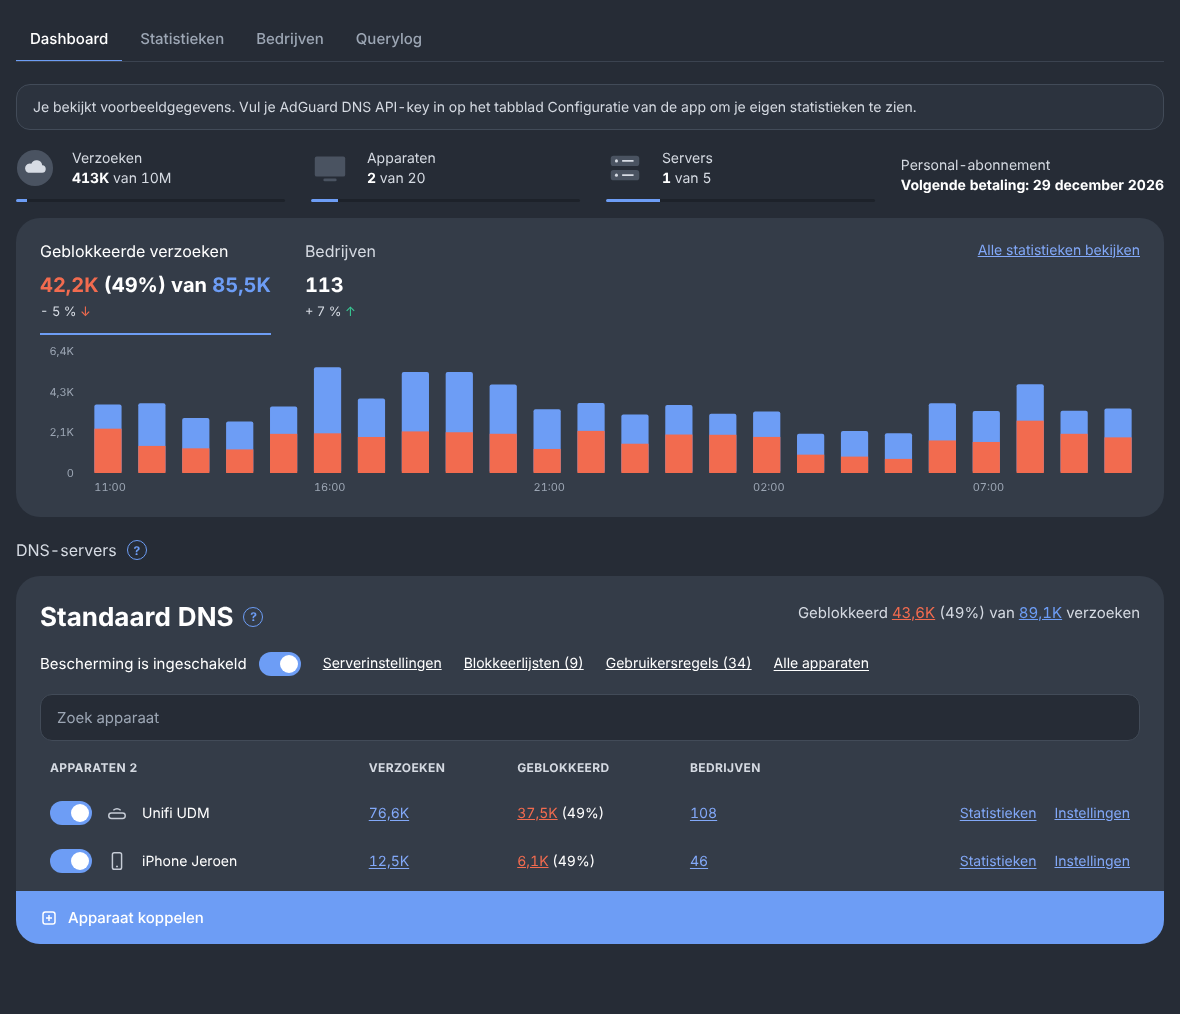
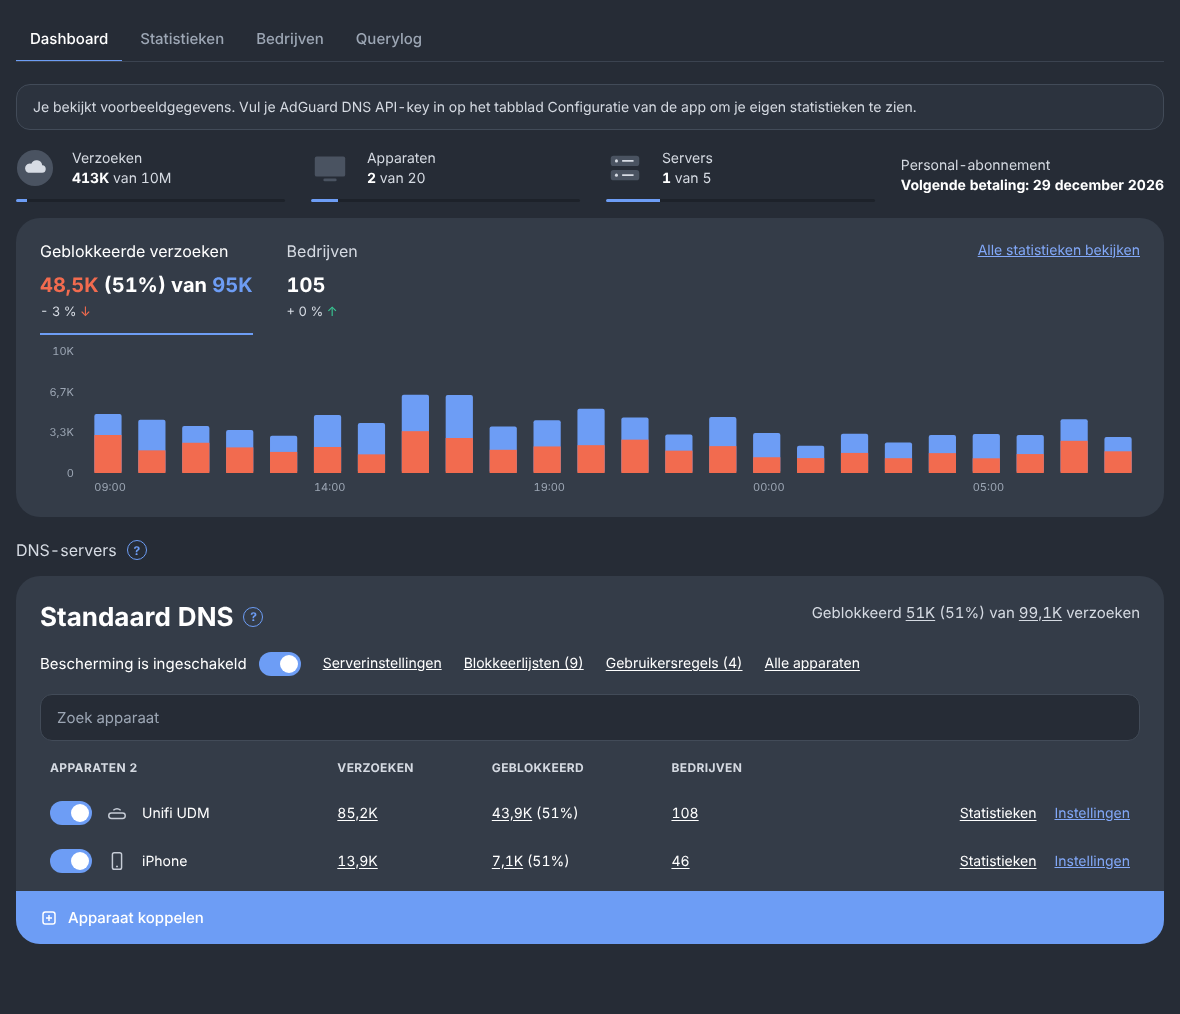
AdGuard DNS Dashboard 1.5.0 (English and Dutch)
Claude-Session: https://claude.ai/code/session_01LJJvsU5wxXHdphLYXtKTSY

diff --git a/adguard_dns/DOCS.md b/adguard_dns/DOCS.md
@@ -1,8 +1,50 @@
 # AdGuard DNS Dashboard
 
+[English](#english) · [Nederlands](#nederlands)
+
+## English
+
+Statistics of your AdGuard DNS account (adguard-dns.io) right in Home Assistant.
+
+The dashboard follows the language of your Home Assistant: Dutch if Home Assistant is set to Dutch, English otherwise.
+
+### Setting up
+
+1. Create an API key at https://adguard-dns.io/en/dashboard/ : click your account at the top right, choose **User preferences** and go to **API keys**. Copy the key right away; it is shown only once.
+2. Fill in on the **Configuration** tab of this app:
+   - `api_key`: your AdGuard DNS API key
+   - `refresh_seconds`: how often the dashboard refreshes (60 seconds by default)
+   - `home_country`: country code of where you live, for the pin on the world map (`NL` by default)
+3. Start the app and open **AdGuard DNS** in the sidebar.
+
+Without an API key the app runs with sample data.
+
+### What you see
+
+- **Dashboard**: usage of your plan, blocked requests and companies per hour with the change compared to the previous period, and your DNS servers with their devices.
+- **Statistics**: requests per period, types of requests, top companies, top destinations, top domains and a world map. Filter by period, server, device and country.
+- **Companies**: the most requested and most blocked company and a table with the top companies.
+- **Query log**: the latest DNS requests, searchable and filterable by blocked or allowed.
+
+### Blocking and unblocking
+
+In the query log, each request has a menu with three dots. Choose **Block domain** or **Unblock domain** and confirm. The dashboard then adds a user rule to the DNS server: `||domain^` to block, `@@||domain^` to allow. Through **User rules** at your DNS server you see all rules and can remove them again. Turn off **Allow changes** if the dashboard may only view.
+
+### Changing settings
+
+Through **Server settings** and **Blocklists** at your DNS server, and **Settings** at a device, you change everything in the dashboard itself. Only connecting a new device is done on the AdGuard DNS website. Turn off **Allow changes** if the dashboard may only view.
+
+### Who may see the dashboard
+
+Only Home Assistant administrators see the sidebar item. If you have several administrators and not everyone may see the dashboard, enter the usernames that may at **Allowed administrators** on the **Configuration** tab. If you leave the list empty, all administrators have access. At the bottom of the dashboard, "Signed in as" shows your exact username.
+
+## Nederlands
+
+Het dashboard volgt de taal van je Home Assistant: Nederlands als Home Assistant Nederlands is, anders Engels.
+
 Statistieken van je AdGuard DNS-account (adguard-dns.io) direct in Home Assistant.
 
-## Instellen
+### Instellen
 
 1. Maak een API-key aan op https://adguard-dns.io/en/dashboard/ : klik rechtsboven op je account, kies **User preferences** en ga naar **API keys**. Kopieer de key direct, je ziet hem maar één keer.
 2. Vul op het tabblad **Configuratie** van deze app in:
@@ -13,21 +55,21 @@ Statistieken van je AdGuard DNS-account (adguard-dns.io) direct in Home Assistan
 
 Zonder API-key draait de app met voorbeeldgegevens.
 
-## Wat je ziet
+### Wat je ziet
 
 - **Dashboard**: verbruik van je abonnement, geblokkeerde verzoeken en bedrijven per uur met de verandering ten opzichte van de vorige periode, en je DNS-servers met hun apparaten.
 - **Statistieken**: verzoeken per periode, soorten verzoeken, topbedrijven, topbestemmingen, topdomeinen en een wereldkaart. Filter op periode, server, apparaat en land.
 - **Bedrijven**: het meest opgevraagde en meest geblokkeerde bedrijf en een tabel met de topbedrijven.
 - **Querylog**: de laatste DNS-verzoeken, te doorzoeken en te filteren op geblokkeerd of toegestaan.
 
-## Blokkeren en deblokkeren
+### Blokkeren en deblokkeren
 
 In de querylog staat achter elk verzoek een menu met drie puntjes. Kies **Domein blokkeren** of **Domein deblokkeren** en bevestig. Het dashboard voegt dan een gebruikersregel toe aan de DNS-server: `||domein^` om te blokkeren, `@@||domein^` om toe te staan. Via **Gebruikersregels** bij je DNS-server zie je alle regels en kun je ze weer verwijderen. Zet **Blokkeren en deblokkeren toestaan** uit als het dashboard alleen mag kijken.
 
-## Instellingen wijzigen
+### Instellingen wijzigen
 
 Via **Serverinstellingen** en **Blokkeerlijsten** bij je DNS-server, en **Instellingen** bij een apparaat, wijzig je alles in het dashboard zelf. Alleen een nieuw apparaat koppelen doe je op de site van AdGuard DNS. Zet **Wijzigingen toestaan** uit als het dashboard alleen mag kijken.
 
-## Wie mag het dashboard zien
+### Wie mag het dashboard zien
 
 Alleen beheerders van Home Assistant zien de knop in de zijbalk. Heb je meerdere beheerders en mag niet iedereen het dashboard zien, vul dan op het tabblad **Configuratie** bij **Toegestane beheerders** de gebruikersnamen in die wel mogen. Laat je de lijst leeg, dan hebben alle beheerders toegang. Onderaan het dashboard staat "Ingelogd als" met je exacte gebruikersnaam.

diff --git a/adguard_dns/CHANGELOG.md b/adguard_dns/CHANGELOG.md
@@ -1,5 +1,11 @@
 # Changelog
 
+## 1.5.0
+
+### New / Nieuw
+- The dashboard is now available in English and follows the language of your Home Assistant: Dutch if Home Assistant is set to Dutch, English otherwise. Dates, numbers and country names follow the language too.
+- Het dashboard is nu ook in het Engels en volgt de taal van je Home Assistant: Nederlands als Home Assistant Nederlands is, anders Engels. Datums, getallen en landnamen volgen de taal ook.
+
 ## 1.4.3
 
 ### Gewijzigd
